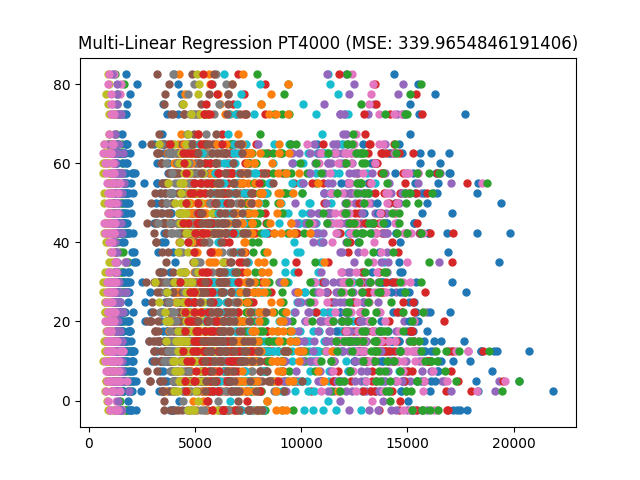
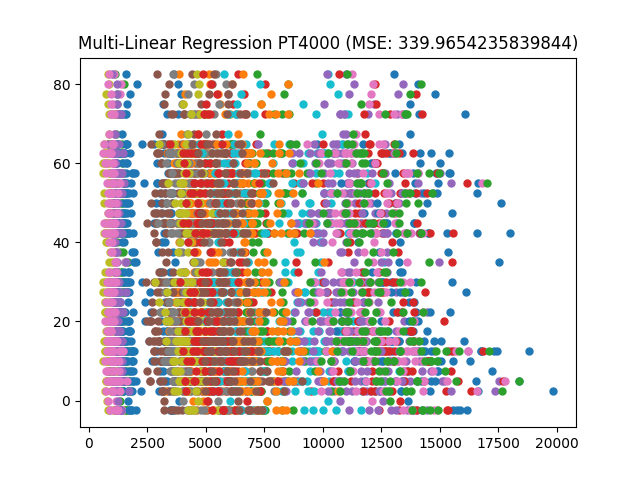
final code

diff --git a/cnn.py b/cnn.py
@@ -10,6 +10,7 @@ import copy
 
 dm = DataManager()
 
+# Change dm.pt-- for different dataset
 X_train, X_test, y_train, y_test = train_test_split(dm.imgs, dm.pt_500, test_size=0.33, random_state=42)
 
 train_data = [(X_train[i], y_train[i]) for i in range(0, len(X_train))]
@@ -20,64 +21,63 @@ validation_loader = torch.utils.data.DataLoader(test_data, batch_size=4, shuffle
  
 model = cnn3d()
 
+# MSE loss function, Adam optimizer with default CNN parameters
 loss_fn = nn.MSELoss()
 optimizer = torch.optim.Adam(model.parameters(), lr=0.001)
  
-n_epochs = 100   # number of epochs to run
- 
 def train_one_epoch():
-    running_loss = 0.
-    last_loss = 0.
+    total_batch_loss = 0.
+    last_batch_loss = 0.
 
     for i, data in enumerate(training_loader):
         inputs, labels = data
         optimizer.zero_grad()
         outputs = model(inputs)
-        print("Labels: \n", labels, "\nOutputs: \n", outputs)
+        # print("Labels: \n", labels, "\nOutputs: \n", outputs)
         loss = loss_fn(outputs, labels)
         loss.backward()
         optimizer.step()
-        running_loss += loss.item()
-        if i % 12 == 11:
-            last_loss = running_loss / 12 # loss per batch
-            print('  batch {} loss: {}'.format(i + 1, last_loss))
-            running_loss = 0.
-    return last_loss
+        total_batch_loss += loss.item()
+        if i % 4 == 3:
+            last_batch_loss = total_batch_loss / 4 # loss per batch
+            print('  batch {} loss: {}'.format(i + 1, last_batch_loss))
+            total_batch_loss = 0.
+    return last_batch_loss
 
-# Hold the best model
-best_mse = np.inf   # init to infinity
+# number of epochs to run
+n_epochs = 100 
+
+# Hold the best model (attempt to avoid overfitting by too many epochs)
+best_mse = np.inf
 best_weights = None
 history = []
  
 for epoch in range(n_epochs):
     model.train()
+    # train
     with tqdm.tqdm(training_loader, unit="Batch") as bar:
         bar.set_description(f"Epoch {epoch + 1}")
         for data in bar:
-            # take a batch
             inputs, labels = data
-            # forward pass
             outputs = model(inputs)
             loss = loss_fn(outputs, labels)
-            # backward pass
             optimizer.zero_grad()
             loss.backward()
-            # update weights
             optimizer.step()
-            # print progress
             bar.set_postfix(mse=float(loss))
-    # evaluate accuracy at end of each epoch
-    running_vloss = 0.0
+    # validate
+    total_vloss = 0.0
     model.eval()
     with torch.no_grad():
         for i, vdata in enumerate(validation_loader):
             vinputs, vlabels = vdata
             voutputs = model(vinputs)
             vloss = loss_fn(voutputs, vlabels)
-            running_vloss += vloss
-            avg_vloss = running_vloss / (i + 1)
+            total_vloss += vloss
+            avg_vloss = total_vloss / (i + 1)
         mse = float(avg_vloss)
         history.append(mse)
+        # store best weights to avoid overfitting
         if mse < best_mse:
             best_mse = mse
             best_weights = copy.deepcopy(model.state_dict())

diff --git a/Utils/DataManager.py b/Utils/DataManager.py
@@ -20,8 +20,10 @@ class DataManager:
             plt.show()
             imgs.append(img)
         imgArray = np.array([np.array([img],dtype=np.float32) for img in imgs])
+
+        normalizedImgs = (imgArray-np.min(imgArray))/(np.max(imgArray)-np.min(imgArray))
         
-        return imgArray
+        return normalizedImgs
 
     def _populate_PTS(self):
         df = pd.read_excel('./dataset/PTs_500_4k_blinded.xlsx')

diff --git a/linear.py b/linear.py
@@ -6,12 +6,11 @@ from sklearn.metrics import mean_squared_error
 
 dm = DataManager()
 
-print(dm.imgs.shape)
 array = []
 for img in dm.imgs:
     array.append(np.sum(img.flatten()))
 x = np.array(array)
-y = dm.pt_500_a
+y = dm.pt_500_a # array, not tensor
 
 lr = LinearRegression()
 lr.fit(x.reshape(-1,1),y.reshape(-1,1))

diff --git a/Models/cnn3d.py b/Models/cnn3d.py
@@ -15,8 +15,6 @@ class cnn3d(nn.Module):
         self.fc1_norm = nn.BatchNorm1d(256)
         self.full_conn2 = nn.Linear(256, 1)
         self.relu = nn.ReLU()
-        # self.drop1 = nn.Dropout3d(0.25)
-        # self.drop2 = nn.Dropout(0.5)
 
     def _def_cnv_layer(self, i_c, o_c):
         cnv_layer = nn.Sequential(
